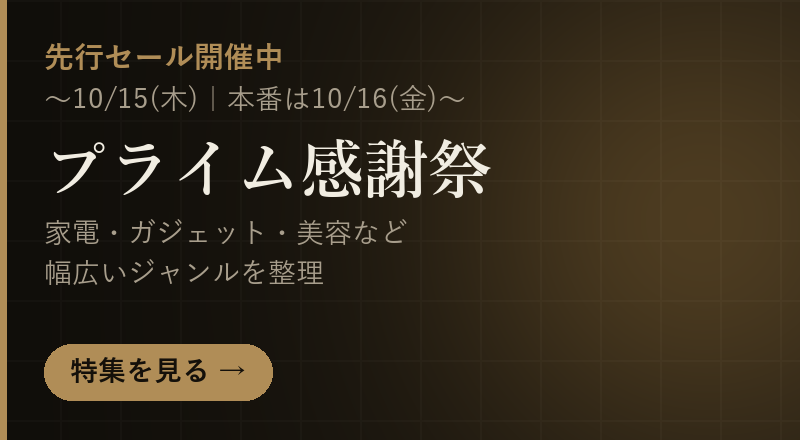
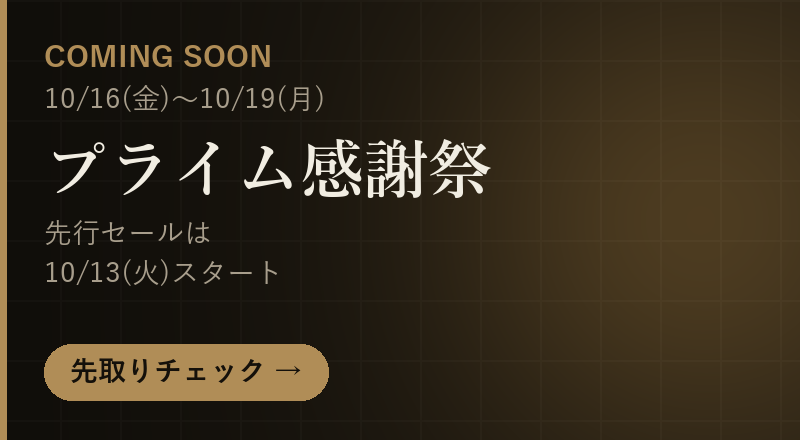
Revert Prime feature page to Coming Soon (presale phase was applied by mistake)

diff --git a/feature-prime-appreciation-202610.html b/feature-prime-appreciation-202610.html
@@ -5,7 +5,7 @@
 <script>(function(){try{var t=localStorage.getItem('gearnote-theme');if(t==='light'||t==='dark'){document.documentElement.setAttribute('data-theme',t);}}catch(e){}})();</script>
 <meta name="viewport" content="width=device-width, initial-scale=1.0">
 <title>Amazonプライム感謝祭特集｜GEARNOTE</title>
-<meta name="description" content="Amazonプライム感謝祭の先行セールが開催中です（10月13日〜15日）。本番は10月16日(金)〜19日(月)。家電・ガジェット・美容・日用品・食品・ベビー・ペットなど幅広いジャンルの商品をGEARNOTEがピックアップして紹介します。">
+<meta name="description" content="Amazon「プライム感謝祭」は2026年10月16日(金)〜19日(月)に開催予定（先行セールは10月13日(火)から）。今のうちにやっておくこと、過去の開催日、家電・ガジェット・美容・日用品・食品・ベビー・ペットなど幅広いジャンルの商品をGEARNOTEがピックアップして紹介します。">
 <meta name="robots" content="index, follow">
 <link rel="icon" type="image/svg+xml" href="favicon.svg">
 <link rel="icon" type="image/png" href="favicon-32.png">
@@ -19,14 +19,14 @@
 <meta property="og:type" content="website">
 <meta property="og:site_name" content="GEARNOTE">
 <meta property="og:title" content="Amazonプライム感謝祭特集｜GEARNOTE">
-<meta property="og:description" content="Amazonプライム感謝祭の先行セールが開催中です（10月13日〜15日）。本番は10月16日(金)〜19日(月)。家電・ガジェット・美容・日用品・食品・ベビー・ペットなど幅広いジャンルの商品をGEARNOTEがピックアップして紹介します。">
+<meta property="og:description" content="Amazon「プライム感謝祭」は2026年10月16日(金)〜19日(月)に開催予定（先行セールは10月13日(火)から）。今のうちにやっておくこと、過去の開催日、家電・ガジェット・美容・日用品・食品・ベビー・ペットなど幅広いジャンルの商品をGEARNOTEがピックアップして紹介します。">
 <meta property="og:url" content="https://gearnote.net/feature-prime-appreciation-202610">
 <link rel="canonical" href="https://gearnote.net/feature-prime-appreciation-202610">
 <link rel="alternate" type="application/rss+xml" title="GEARNOTE" href="https://gearnote.net/feed.xml">
 <meta property="og:image" content="https://gearnote.net/og-image.png">
 <meta name="twitter:card" content="summary_large_image">
 <meta name="twitter:title" content="Amazonプライム感謝祭特集｜GEARNOTE">
-<meta name="twitter:description" content="Amazonプライム感謝祭の先行セールが開催中です（10月13日〜15日）。本番は10月16日(金)〜19日(月)。家電・ガジェット・美容・日用品・食品・ベビー・ペットなど幅広いジャンルの商品をGEARNOTEがピックアップして紹介します。">
+<meta name="twitter:description" content="Amazon「プライム感謝祭」は2026年10月16日(金)〜19日(月)に開催予定（先行セールは10月13日(火)から）。今のうちにやっておくこと、過去の開催日、家電・ガジェット・美容・日用品・食品・ベビー・ペットなど幅広いジャンルの商品をGEARNOTEがピックアップして紹介します。">
 <meta name="twitter:image" content="https://gearnote.net/og-image.png">
 <link rel="preconnect" href="https://fonts.googleapis.com">
 <link href="https://fonts.googleapis.com/css2?family=Noto+Sans+JP:wght@400;500;700;900&family=Shippori+Mincho:wght@500;600;800&family=Cormorant+Garamond:wght@600;700&display=swap" rel="stylesheet">
@@ -63,17 +63,17 @@
   <div class="wrap">
     <div class="section-head" style="margin-bottom:16px;">
       <div>
-        <span class="tag">先行セール開催中</span>
+        <span class="tag">Coming Soon</span>
         <h1>Amazon「プライム感謝祭」特集<br>家電・ガジェット・美容 ピックアップ</h1>
-        <p class="desc">先行セール開催中：2026年10月13日(火)0時〜10月15日(木)23時59分／本番：10月16日(金)〜10月19日(月)（Amazonの案内より）</p>
+        <p class="desc">開催期間：2026年10月16日(金)〜10月19日(月)／先行セール：10月13日(火)スタート（2026年9月24日時点のAmazonの案内）</p>
         <p class="pd-byline">執筆・確認：<a href="about.html#author">GEARNOTE運営（H＆C）</a></p>
       </div>
     </div>
 
     <div class="legal" style="margin-bottom:24px; padding-top:0; padding-bottom:0;">
 
-      <p style="display:inline-block; padding:6px 16px; border:1px solid var(--gold, #b08d57); border-radius:999px; font-weight:700; letter-spacing:.14em;">🔥 先行セール開催中</p>
-      <p><strong>先行セールは10月15日(木)23時59分までです。</strong>本番のプライム感謝祭は<strong>10月16日(金)0時〜10月19日(月)23時59分</strong>です。セール対象かどうか、価格・ポイントの条件は、必ず各商品のAmazon商品ページと、Amazonのキャンペーンページでご確認ください。</p>
+      <p style="display:inline-block; padding:6px 16px; border:1px solid var(--gold, #b08d57); border-radius:999px; font-weight:700; letter-spacing:.14em;">🔜 COMING SOON</p>
+      <p><strong>現在はまだ開催前です。</strong>Amazonの案内によると、プライム感謝祭は<strong>10月16日(金)〜10月19日(月)</strong>、先行セールは<strong>10月13日(火)</strong>スタートです。詳細が更新された場合はこのページも更新します。今のうちにチェックしておきたい商品と準備をまとめています。</p>
       <h2 style="margin-top:12px;">今年の発表内容（Amazon公式より）</h2>
       <ul>
         <li>開催期間：<strong>10月16日(金)0時〜10月19日(月)23時59分</strong>（4日間）</li>

diff --git a/features.html b/features.html
@@ -119,9 +119,9 @@
         <a href="feature-furusato-nozei-2026.html" class="btn btn-ghost btn-sm" style="display:inline-flex;width:auto;">特集を見る</a>
       </div>
       <div class="cta-box" style="text-align:left; padding:22px 26px; margin:0 0 16px;">
-        <p style="margin:0 0 6px;"><span class="tag" style="">先行セール開催中</span> <span style="color:var(--text-muted);font-size:0.85rem;">先行セール 10月13日(火)〜15日(木)／本番 10月16日(金)〜19日(月)</span></p>
+        <p style="margin:0 0 6px;"><span class="tag" style="">Coming Soon</span> <span style="color:var(--text-muted);font-size:0.85rem;">2026年10月16日(金)〜19日(月)（先行セール10月13日(火)〜）</span></p>
         <h2 style="font-size:1.15rem;margin:0 0 8px;"><a href="feature-prime-appreciation-202610.html">Amazonプライム感謝祭特集</a></h2>
-        <p style="margin:0 0 12px;color:var(--text-muted);font-size:0.92rem;">Amazonプライム感謝祭の先行セールが開催中です。家電・ガジェット・美容・食品・ベビー・ペットなど幅広いジャンルの商品をピックアップした特集です。本番は10月16日(金)〜19日(月)と案内されています。</p>
+        <p style="margin:0 0 12px;color:var(--text-muted);font-size:0.92rem;">Amazonのプライム感謝祭に向けて、家電・ガジェット・美容・食品・ベビー・ペットなど幅広いジャンルの商品をピックアップした特集です。開催期間は10月16日(金)〜19日(月)、先行セールは10月13日(火)からと案内されています。</p>
         <a href="feature-prime-appreciation-202610.html" class="btn btn-ghost btn-sm" style="display:inline-flex;width:auto;">特集を見る</a>
       </div>
       <div class="cta-box" style="text-align:left; padding:22px 26px; margin:0 0 16px; opacity:0.85;">

diff --git a/index.html b/index.html
@@ -79,7 +79,7 @@
   <a href="feature-prime-appreciation-202610.html" class="event-banner" style="margin-bottom:14px;">
     <picture>
       <source media="(max-width: 760px)" srcset="card-prime-appreciation-202610.png">
-      <img src="card-prime-appreciation-wide-202610.png" alt="先行セール開催中｜Amazonプライム感謝祭特集（先行セールは10月15日(木)まで・本番は10月16日(金)〜19日(月)）" loading="eager">
+      <img src="card-prime-appreciation-wide-202610.png" alt="Coming Soon｜Amazonプライム感謝祭特集（10月16日(金)〜19日(月)開催予定・先行セールは10月13日(火)から）" loading="eager">
     </picture>
   </a>
   <div class="event-banner-row">
